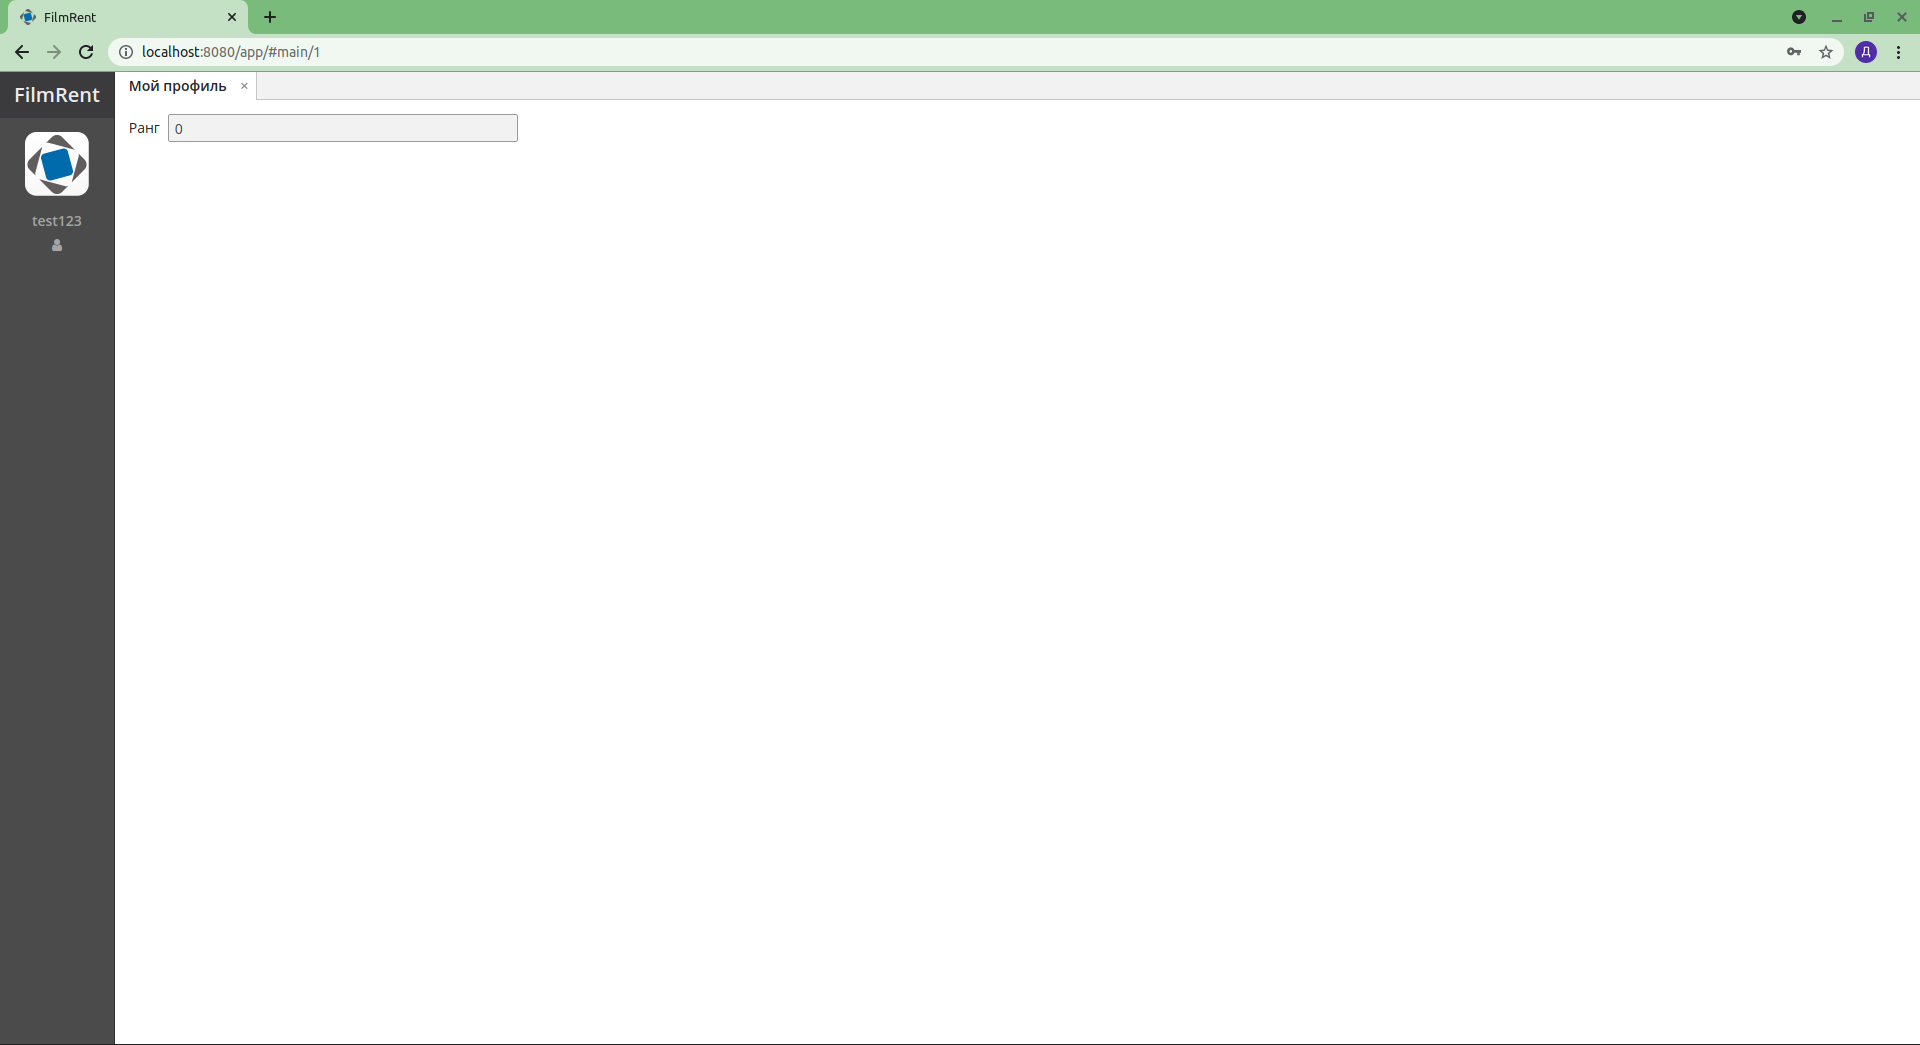
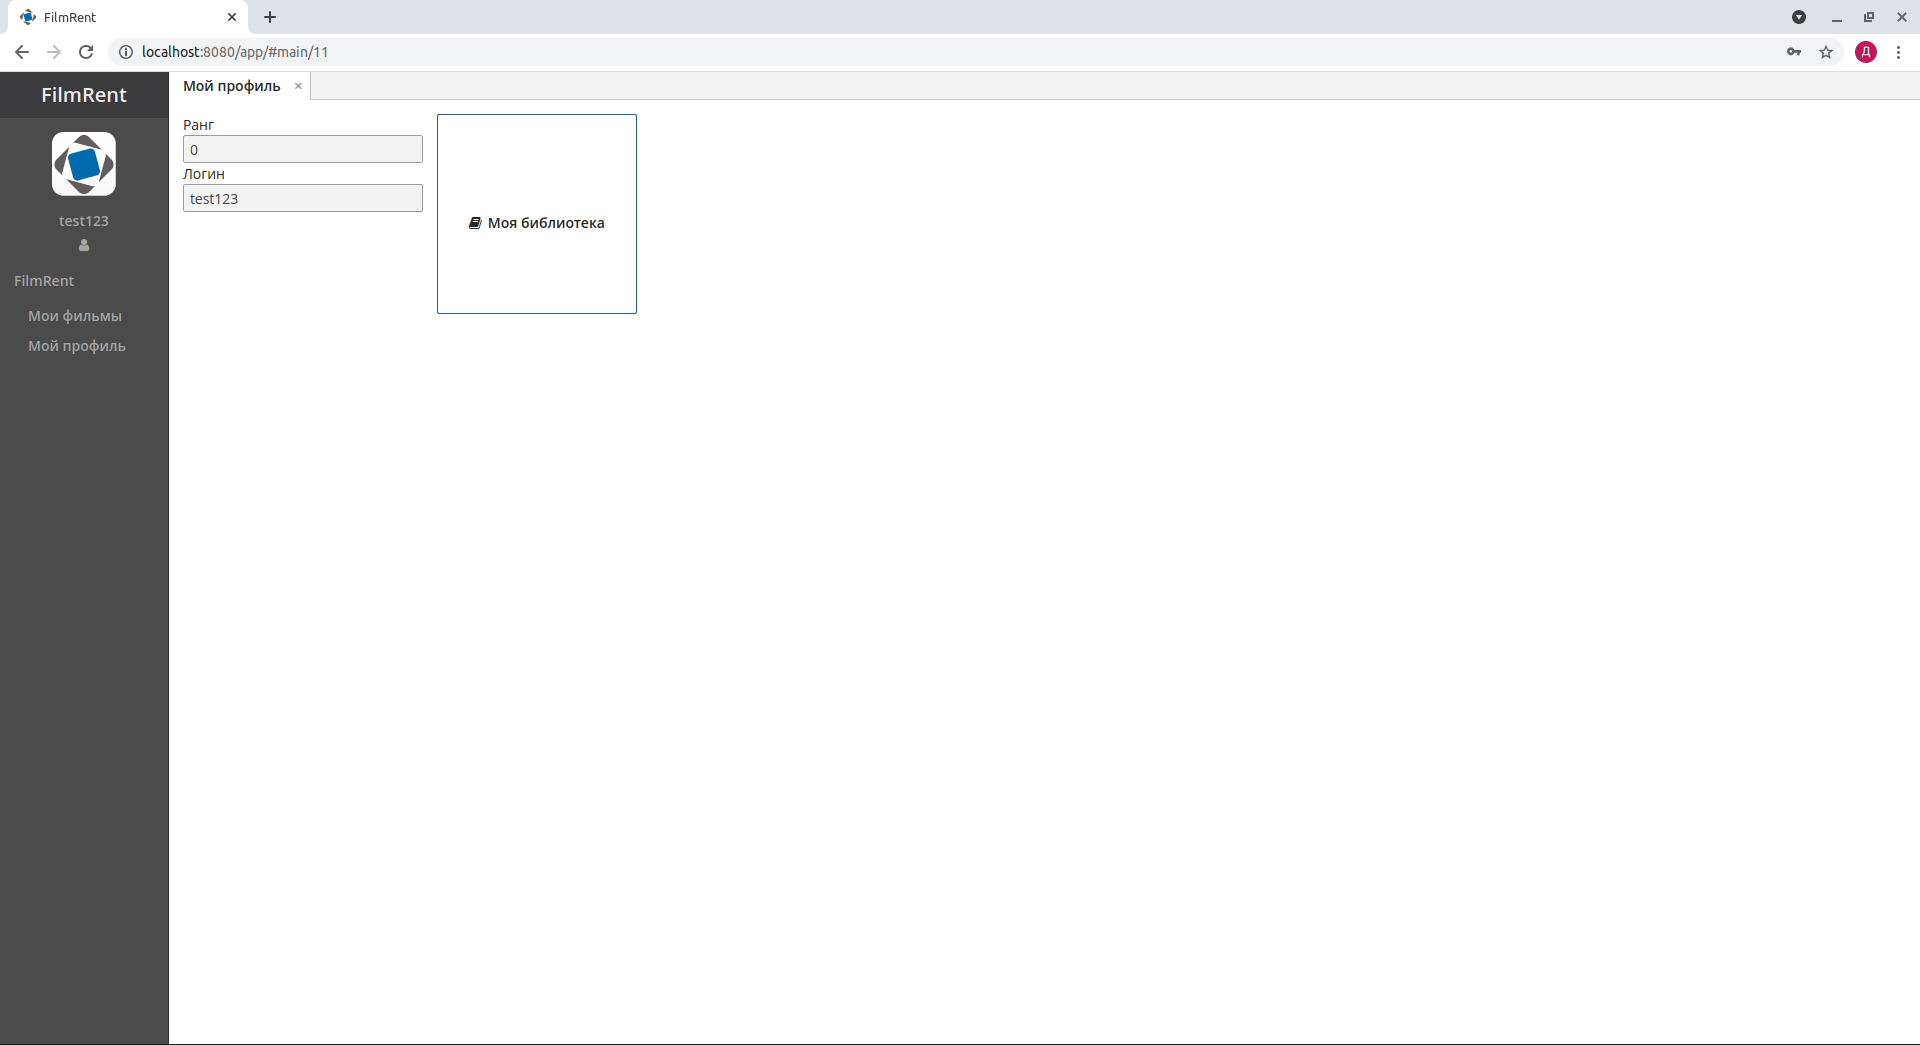
updated readme.md

Changed region(s): [[0.0, 0.0, 1.0, 1.0], [0.25, 0.1837, 0.3125, 0.2144]]

diff --git a/readme.md b/readme.md
@@ -2,17 +2,21 @@ Main page
 ![Main page](screenshots/main.png "Main page")
 Login page
 ![Login page](screenshots/login.png "Login page")
-Films viewe
+Films view
 ![Films view](screenshots/filmsView.png "Films view")
 Film card
 ![Film card](screenshots/filmAbout.png "Film card")
 Films list
 ![Films list](screenshots/films.png "Films list")
 Edit film
-![Main page](screenshots/Edit film.png "Edit film")
+![Edit film](screenshots/Edit film.png "Edit film")
 Critic card
 ![Critic card](screenshots/criticAbout.png "Critic card")
 Critics list
 ![Critics list](screenshots/critics.png "Critics list")
 Critic edit
-![Main page](screenshots/criticsEdit.png "Critic edit")
+![Critic edit](screenshots/criticsEdit.png "Critic edit")
+Library view
+![Library view](screenshots/libraryView.png "Library view")
+Library edit
+![Library list](screenshots/libraryEdit.png "Library edit")
